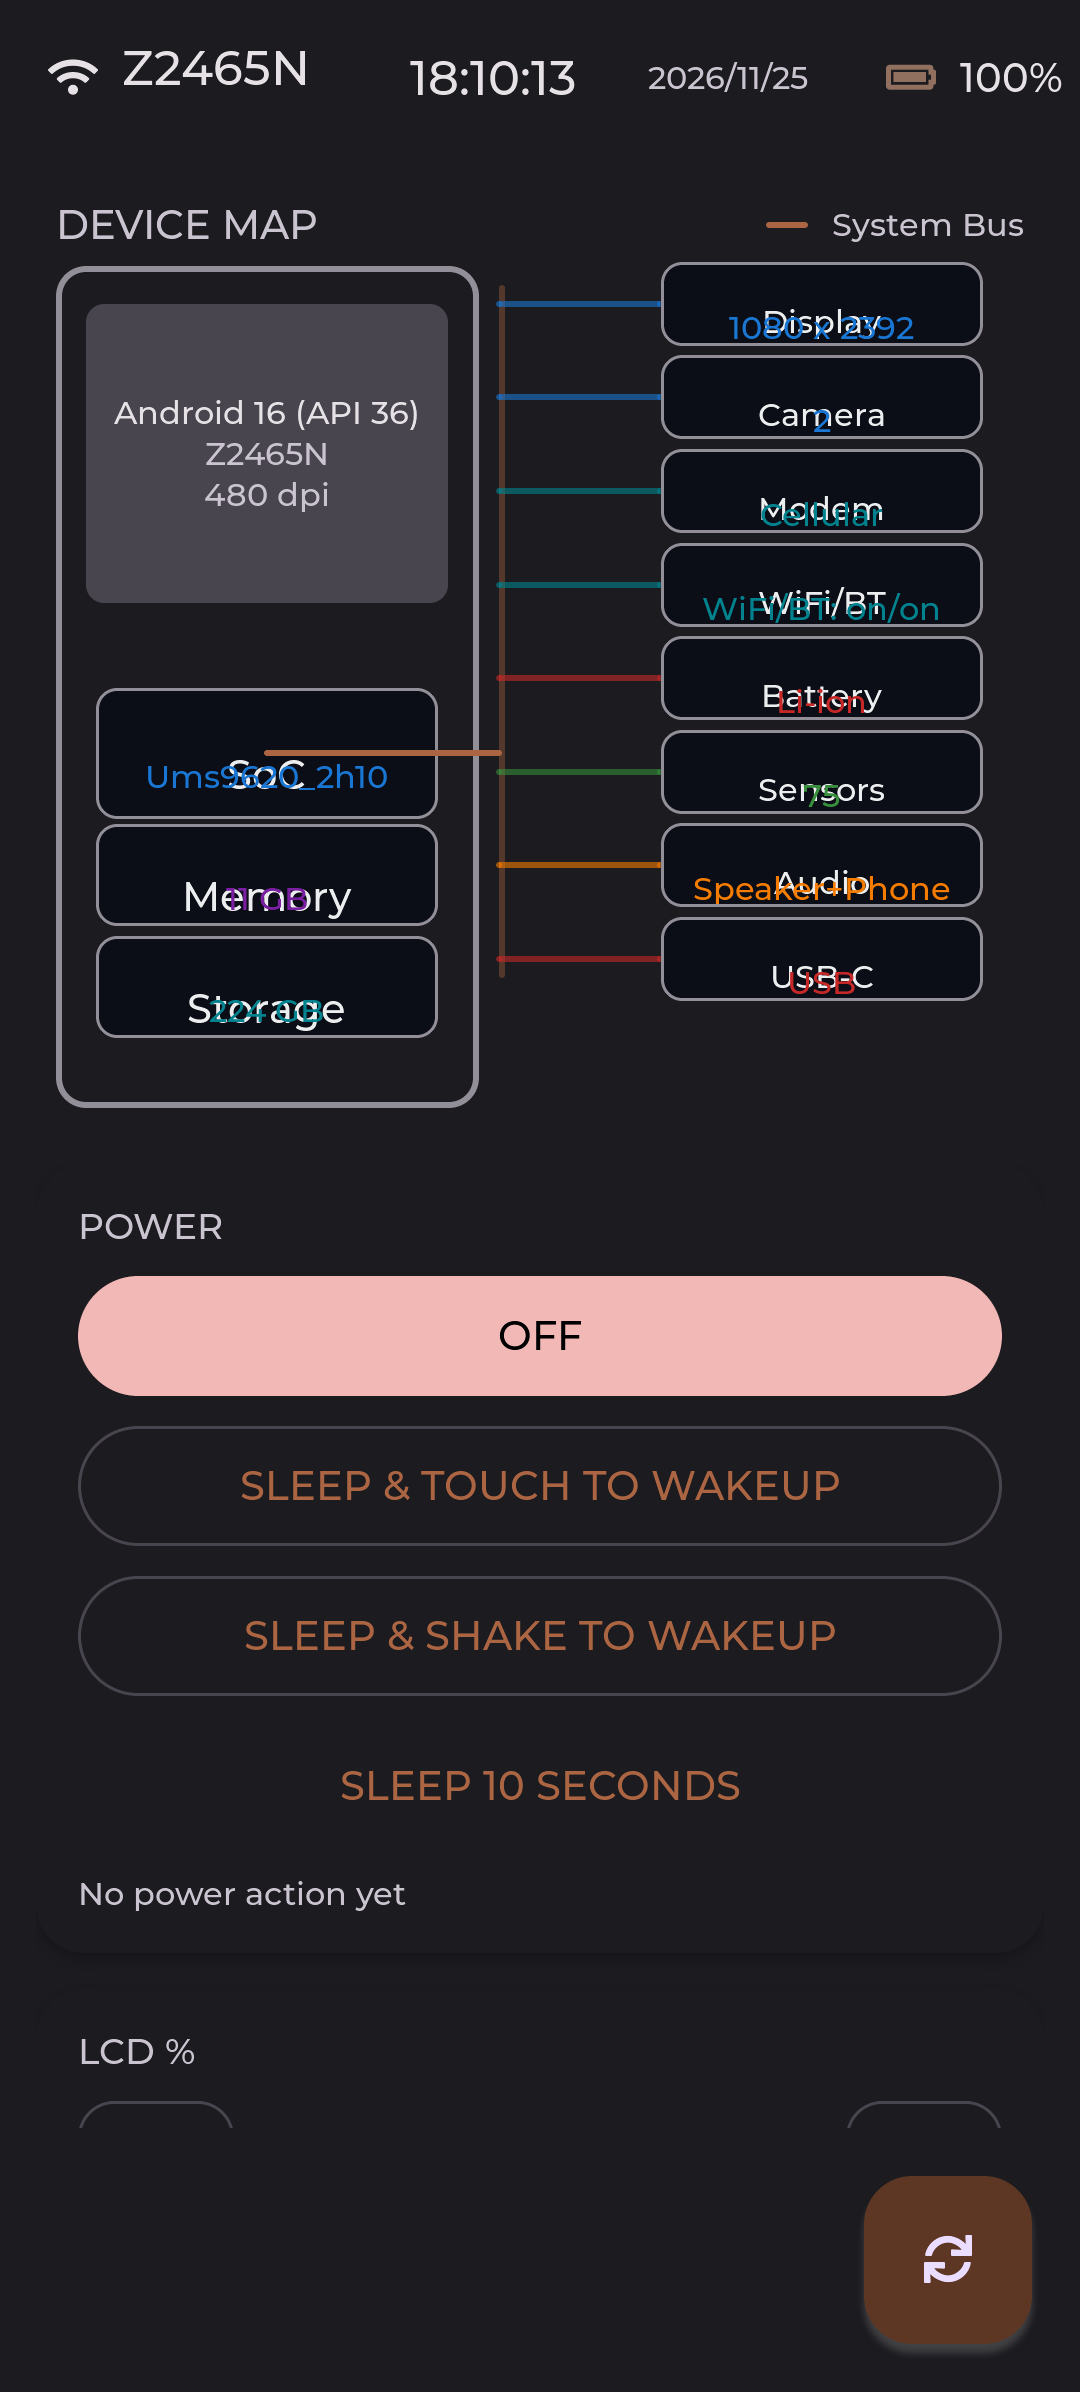
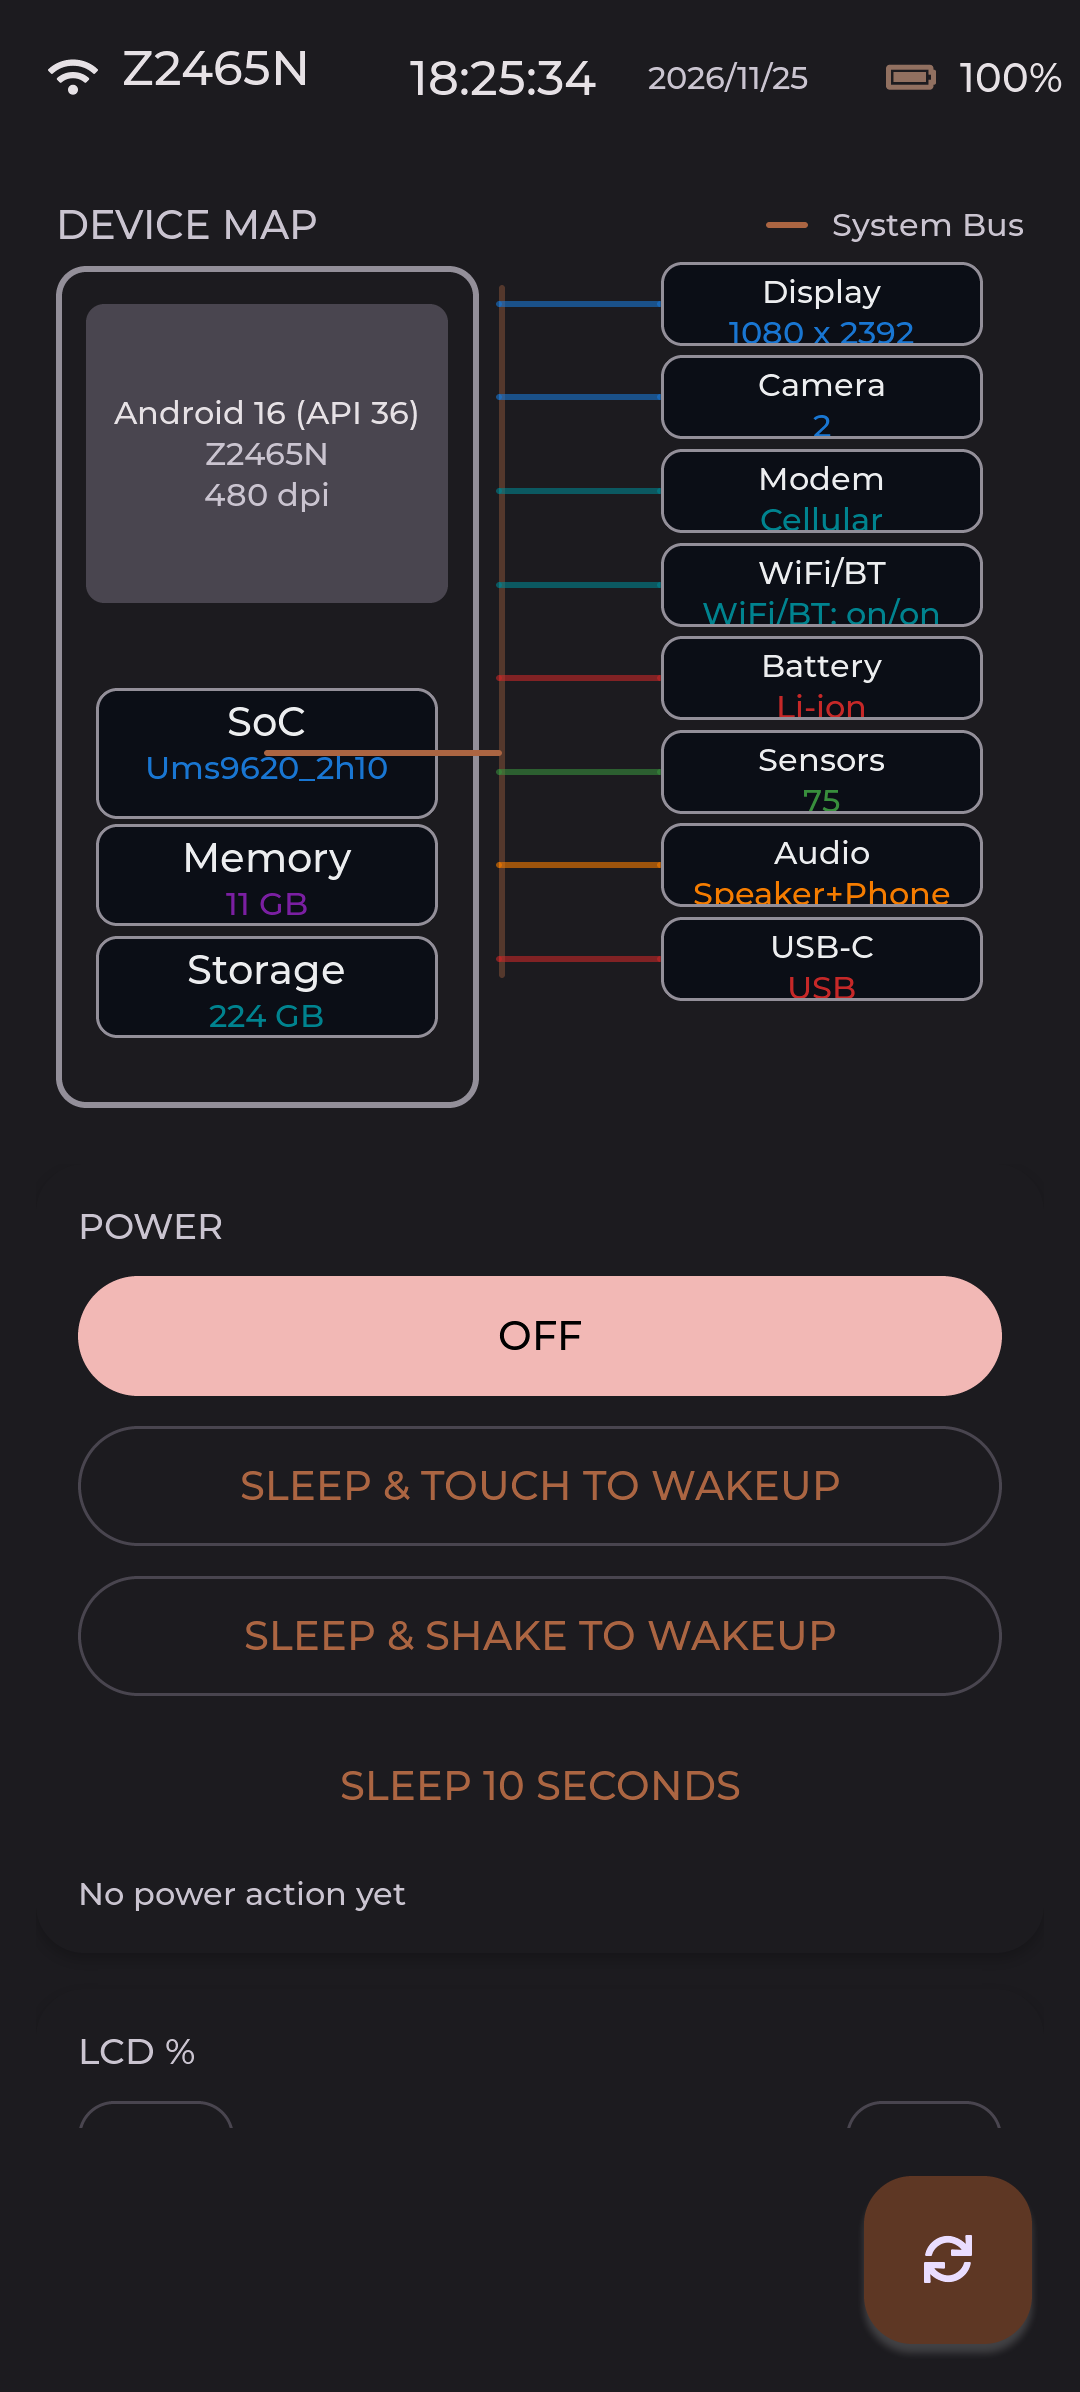
Refresh final hardware verification screenshots

Changed region(s): [[0.6417, 0.1237, 0.8556, 0.4331], [0.1528, 0.2784, 0.3667, 0.4331], [0.4278, 0.0309, 0.55, 0.0619]]

diff --git a/screenshots/hardware/final2/QA.md b/screenshots/hardware/final2/QA.md
@@ -1,0 +1,49 @@
+# Final2 hardware visual QA
+
+Scope: all 25 PNGs in `screenshots/hardware/final2/` opened and visually inspected.
+Cross-check: `logcat.txt` (no ANR/FATAL for `com.lvgl.sample`; `LicensesActivity` START_SUCCESS and resumed).
+
+**Overall verdict: FAIL** — 4 failing frames (2 black/blank, 2 with overlapping device-map chip text).
+
+| # | File | Verdict | Notes |
+|---|------|---------|-------|
+| 01 | 01_dashboard.png | PASS | Clean device map: Display 1080x2392, Camera 2, Modem Cellular, WiFi/BT on/on, Battery Li-ion, Sensors 75, Audio Speaker+Phone, USB-C USB, SoC/Memory/Storage all readable, no overlap. Power controls readable. |
+| 02 | 02_widget_showcase.png | PASS | Button, switch, checkbox, slider, progress, arc, dropdown all render; text readable. Bottom "MATERIAL 3" section header is at the viewport edge. |
+| 03 | 03_layout_showcase.png | PASS | Flex row-wrap tiles A–F correct, no overlap. |
+| 04 | 04_interactive_demo.png | PASS | Marker centred, instruction text readable. |
+| 05 | 05_interactive_tapped.png | PASS | Marker moved to upper-right tap point; touch works. |
+| 06 | 06_game_sample.png | PASS | "Tap the Target", Score: 0, target visible. |
+| 07 | 07_game_tapped.png | PASS | Score incremented to 1, target repositioned. |
+| 08 | 08_launcher.png | PASS | Launcher list (Accessibility … Android Auto) readable, no overlap. |
+| 09 | 09_launcher_tapped.png | PASS | Tapping an app launches native Accessibility settings; no ANR. |
+| 10 | 10_showcase_tiles.png | PASS | Audio / System / Sensors / Config tiles render correctly. |
+| 11 | 11_showcase_window.png | PASS | Audio overlay with visualiser bars and close (X) control. |
+| 12 | 12_showcase_closed.png | PASS | Overlay dismissed, tiles restored. |
+| 13 | 13_app_demo.png | PASS | Kotlin/LvglUi screen: Taps 0, Slider 40, toggles, Option A, Selected 1. |
+| 14 | 14_app_demo_button.png | PASS | Button tap increments Taps 0 → 1. |
+| 15 | 15_app_demo_dropdown.png | PASS* | Checkbox toggled on (state change confirmed); dropdown itself is not opened in this frame. |
+| 16 | 16_app_demo_licenses.png | PASS | Scrolled App Demo shows gauges and "Open source licenses" button. |
+| 17 | 17_licenses.png | **FAIL** | Fully black/blank frame — license screen content not visible. |
+| 18 | 18_back_chevron.png | **FAIL** | Fully black/blank frame — back chevron not visible. |
+| 19 | 19_hardware_back.png | PASS* | Native Android Accessibility settings shown after back; LVGL back-stack not verifiable from this frame alone. |
+| 20 | 20_dashboard_light.png | **FAIL** | Device-map chip labels overlap their values throughout (e.g. "10Display92", "Cellular" over Modem, "WiFi/BT" over on/on, "SpeaAudiohone", SoC/Memory/Storage double-drawn). |
+| 21 | 21_dashboard_dark.png | **FAIL** | Same device-map label/value overlap in dark theme. |
+| 22 | 22_camera_first.png | PASS* | Camera 1 of 2: live dark/noisy preview imagery present (not blank); status text readable. |
+| 23 | 23_camera_second.png | PASS | Camera 2 of 2: clear live imagery visible; switch works. |
+| 24 | 24_camera_third.png | PASS* | Cycled back to camera 1 of 2; live dark/noisy imagery present. |
+| 25 | 25_camera_cycled_back.png | PASS | Camera 2 of 2 imagery visible again; cycling stable. |
+
+\* PASS with an observation listed in Notes.
+
+## FAIL reasons
+
+1. **17_licenses.png** — black/blank frame; licenses navigation/content could not be visually verified. Logcat shows `LicensesActivity` started and resumed successfully, so this is likely a capture/display-timing black frame, but it fails visual QA as delivered.
+2. **18_back_chevron.png** — black/blank frame; the back chevron could not be visually verified.
+3. **20_dashboard_light.png** — severe overlapping text in the device-map chips: every chip's title and value are drawn on top of each other, making both hard to read.
+4. **21_dashboard_dark.png** — same device-map chip overlap in dark mode.
+
+## Additional observations (not FAIL)
+
+- No ANR dialog or crash dialog appears in any frame; logcat contains no ANR/FATAL lines for the sample app.
+- Frame 01 (captured later, 18:16) shows the device map with correct, non-overlapping label/value stacking — frames 20/21 (18:10) show the broken overlap state.
+- Camera-details text says "not rendered (frames processed locally)" while live imagery is visibly displayed; a wording inconsistency, not a visual defect.
